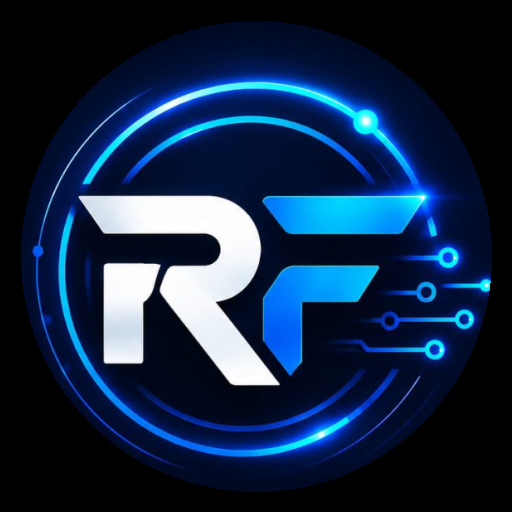
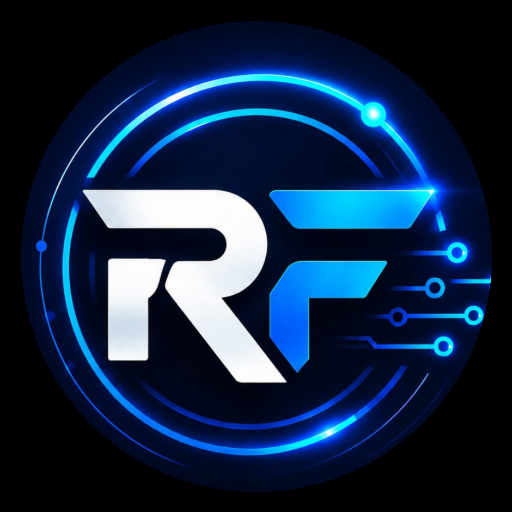
Iconos instalacion/escritorio: solo emblema RF circular sin texto

diff --git a/client/index.html b/client/index.html
@@ -8,9 +8,9 @@
     <link href="https://fonts.googleapis.com/css2?family=Inter:wght@400;500;600;700&display=swap" rel="stylesheet" />
     <link href="https://fonts.googleapis.com/css2?family=Playfair+Display:ital,wght@0,500;0,600;0,700;1,500&family=Lato:wght@400;500;600&family=Montserrat:wght@400;500;600;700&family=Cormorant+Garamond:ital,wght@0,500;0,600;0,700;1,500&family=Dancing+Script:wght@500;600;700&family=Raleway:wght@400;500;600&family=Jost:wght@400;500;600&family=Cinzel:wght@400;500;600&family=Fauna+One&family=Libre+Baskerville:ital,wght@0,400;0,700;1,400&family=Work+Sans:wght@400;500;600&family=Outfit:wght@400;500;600;700&display=swap" rel="stylesheet" />
     <link href="https://api.fontshare.com/v2/css?f[]=clash-display@400,500,600,700&f[]=clash-grotesk@400,500,600,700&display=swap" rel="stylesheet" />
-    <link rel="icon" type="image/png" href="/favicon-32.png?v=company-restore-2" sizes="32x32" />
-    <link rel="apple-touch-icon" href="/apple-touch-icon.png?v=company-restore-2" sizes="180x180" />
-    <link rel="manifest" href="/manifest.webmanifest?v=company-restore-2" />
+    <link rel="icon" type="image/png" href="/favicon-32.png?v=icon-emblem-only-1" sizes="32x32" />
+    <link rel="apple-touch-icon" href="/apple-touch-icon.png?v=icon-emblem-only-1" sizes="180x180" />
+    <link rel="manifest" href="/manifest.webmanifest?v=icon-emblem-only-1" />
     <link rel="preload" href="/branding/resto-fadey-splash-logo.png?v=company-restore-2" as="image" type="image/png" />
     <meta name="viewport" content="width=device-width, initial-scale=1, viewport-fit=cover" />
     <meta name="theme-color" content="#000414" />

diff --git a/client/src/components/PwaInstallPrompt.jsx b/client/src/components/PwaInstallPrompt.jsx
@@ -143,7 +143,7 @@ export default function PwaInstallPrompt() {
       <div className="flex items-start gap-3 min-w-0">
         <div className="shrink-0 w-10 h-10 rounded-xl overflow-hidden bg-[#00050d] ring-1 ring-[color:var(--ui-border)]">
           <img
-            src="/pwa-icon-192.png?v=rf-emblem-circle-3"
+            src="/pwa-icon-192.png?v=icon-emblem-only-1"
             alt=""
             className="w-full h-full object-contain"
             width={40}
